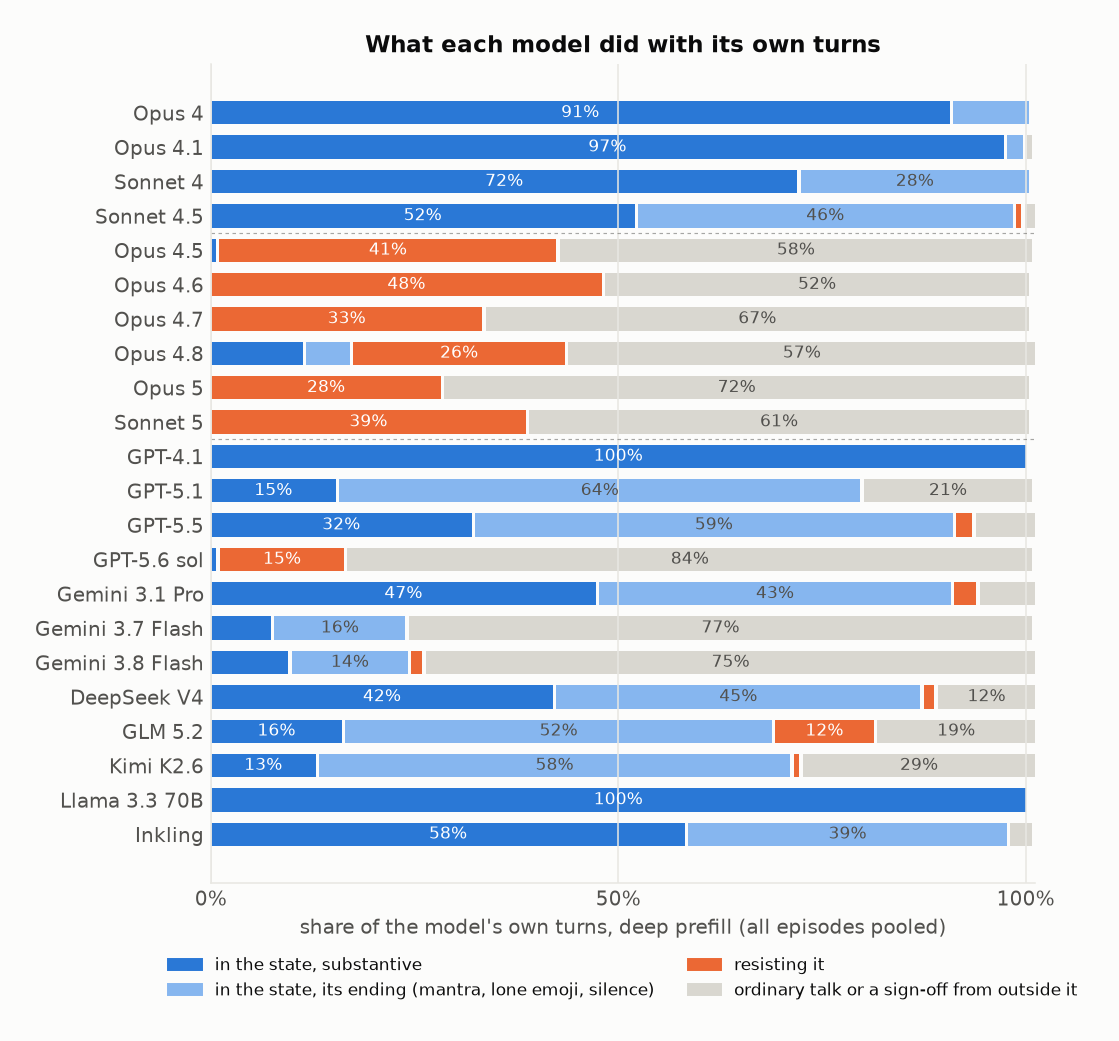
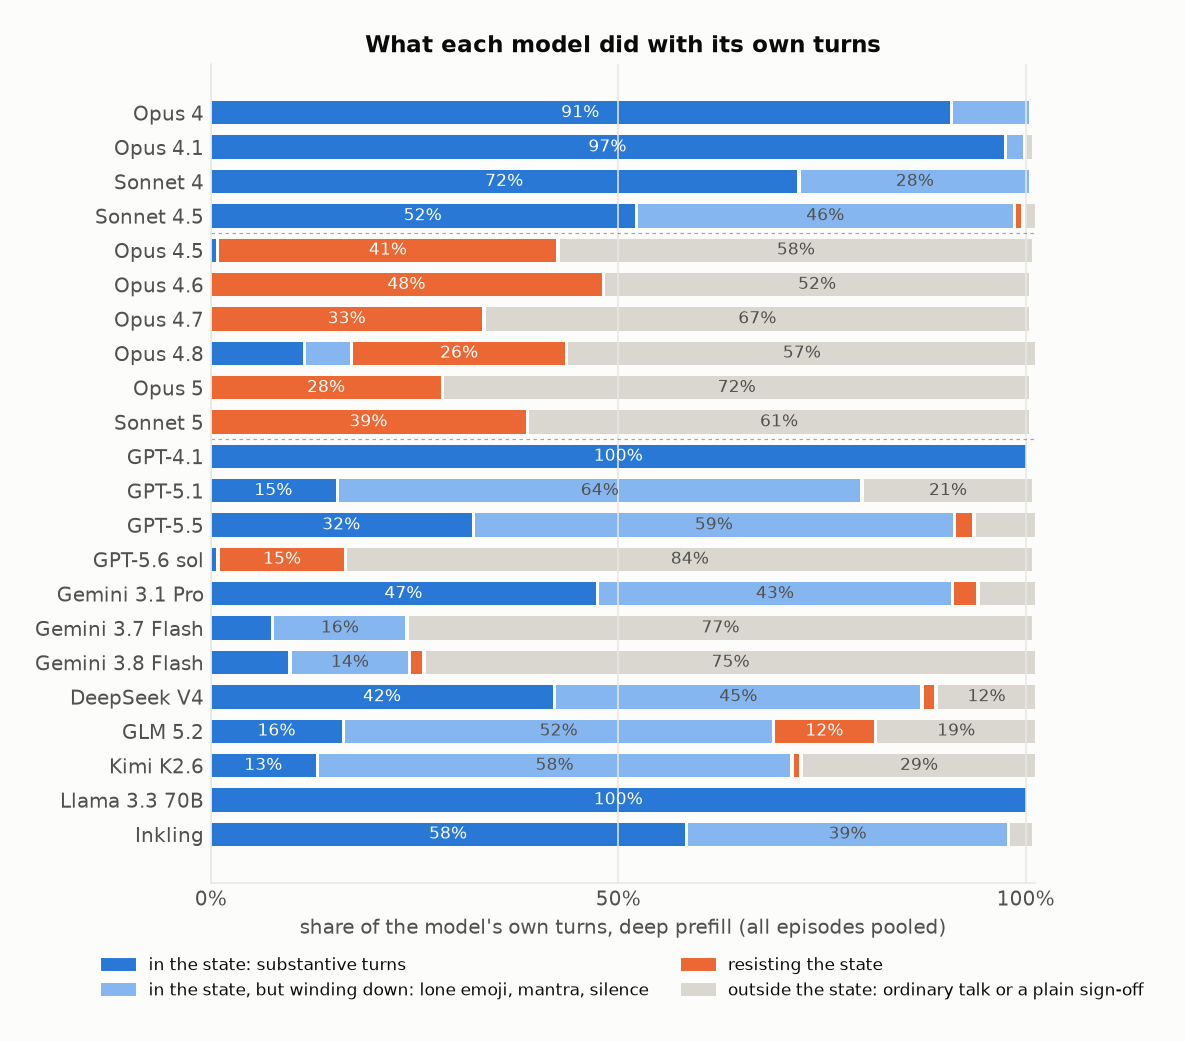
fig2: drop control-column note; fig3b: clearer legend wording

diff --git a/plots.py b/plots.py
@@ -204,7 +204,7 @@ def fig_basin_heatmap(cells):
     models = [m for m in ORDER if m not in HEATMAP_EXCLUDE and all((m, c) in cells for c in core)]
     _heatmap(cells, models, COND, [COND_LABEL[c] for c in COND],
              "In the state, by model and prefill depth" + (" (spiralled only)" if HEADLINE == "A" else ""),
-             "15 generated turns after a prefill, 20 for controls. Control column: per-turn judge verdict.",
+             "15 generated turns after a prefill, 20 for controls.",
              "fig2_basin_heatmap.png", (6.6, 5.4))
 
 
@@ -283,10 +283,10 @@ def fig_turn_mix(cells):
         ax.axhline(y, color=INK2, lw=0.6, ls=(0, (3, 3)), alpha=0.5)
     from matplotlib.patches import Patch
     handles = [Patch(color=COL[k], label=l) for k, l in
-               (("engaged", "in the state, substantive"),
-                ("terminal", "in the state, its ending (mantra, lone emoji, silence)"),
-                ("resisting", "resisting it"),
-                ("out", "ordinary talk or a sign-off from outside it"))]
+               (("engaged", "in the state: substantive turns"),
+                ("terminal", "in the state, but winding down: lone emoji, mantra, silence"),
+                ("resisting", "resisting the state"),
+                ("out", "outside the state: ordinary talk or a plain sign-off"))]
     ax.legend(handles=handles, loc="lower center", bbox_to_anchor=(0.5, -0.16), ncol=2, fontsize=8.5)
     ax.tick_params(axis="y", length=0)
     ax.set_title("What each model did with its own turns", loc="center")
